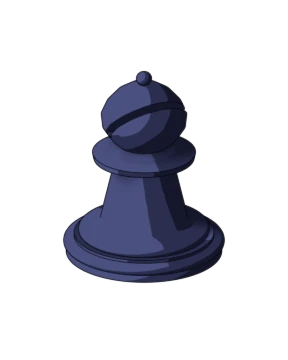
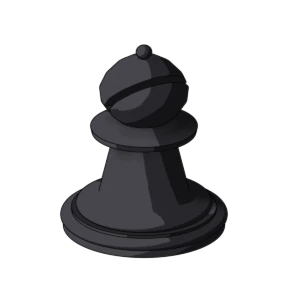
Pieces fit inside their square, sized by bulk; muted sand/olive board with neutral white and charcoal pieces

Changed region(s): [[0.1875, 0.1562, 0.8125, 0.9062]]

diff --git a/index.html b/index.html
@@ -17,7 +17,7 @@
     --bg1:#e8f5ff; --bg2:#fff6e8; --card:#fff; --ink:#2d2a3e; --muted:#7a7590; --line:#ece6f5;
     --accent:#ff7a3d; --accent-d:#e5602a; --accent2:#fff0e6;
     --ok:#2fa968; --ok2:#e6f8ee; --warn:#e2453c; --warn2:#ffecea; --blue:#4a8cff;
-    --light:#c3d9a5; --dark:#6f9f59;
+    --light:#dccfb0; --dark:#7f9455;
     --bs:max(250px,min(calc(100vw - 16px),560px,calc(100svh - 290px)));
   }
   *{box-sizing:border-box;-webkit-tap-highlight-color:transparent}
@@ -63,7 +63,7 @@
 
   /* board */
   .board{width:var(--bs);height:var(--bs);display:grid;grid-template-columns:repeat(8,1fr);grid-template-rows:repeat(8,1fr);border-radius:16px;
-    border:5px solid #557f43;box-shadow:0 6px 0 #3f6531,0 12px 28px rgba(40,80,30,.25);user-select:none;-webkit-user-select:none;touch-action:manipulation}
+    border:5px solid #5f7040;box-shadow:0 6px 0 #4a5832,0 12px 28px rgba(40,80,30,.25);user-select:none;-webkit-user-select:none;touch-action:manipulation}
   .board{position:relative}
   .matbox{display:flex;align-items:center;gap:8px 14px;flex-wrap:wrap;background:#fff;border-radius:16px;padding:6px 12px;box-shadow:0 3px 0 var(--line);animation:pop .25s}
   .matgrp{display:flex;align-items:center;gap:4px}
@@ -90,16 +90,16 @@
      키 큰 기물은 위 칸으로 살짝 솟아요(2.5D). 아래 줄 기물이 DOM에서 나중이라 뒤 기물을 자연스럽게 가려요. */
   .sq.c0{border-top-left-radius:11px}.sq.c7{border-top-right-radius:11px}.sq.c56{border-bottom-left-radius:11px}.sq.c63{border-bottom-right-radius:11px}
   .sq.c0::before{border-top-left-radius:11px}.sq.c7::before{border-top-right-radius:11px}.sq.c56::before{border-bottom-left-radius:11px}.sq.c63::before{border-bottom-right-radius:11px}
-  .pc{display:inline-block;width:1em;height:1.25em;font-size:32px;background:var(--img) center/100% 100% no-repeat;vertical-align:middle;pointer-events:none}
-  .sq .pc{position:absolute;left:0;right:0;bottom:0;width:auto;height:125%;z-index:1;background:none;filter:none;font-size:inherit}
-  .sq .pc::before{content:"";position:absolute;left:calc(50% - var(--sw,.58)*50%);width:calc(var(--sw,.58)*100%);bottom:24%;height:calc(var(--sw,.58)*22%);
+  .pc{display:inline-block;width:1em;height:1em;font-size:32px;background:var(--img) center/100% 100% no-repeat;vertical-align:middle;pointer-events:none}
+  .sq .pc{position:absolute;left:0;right:0;bottom:0;width:auto;height:100%;z-index:1;background:none;filter:none;font-size:inherit}
+  .sq .pc::before{content:"";position:absolute;left:calc(50% - var(--sw,.58)*50%);width:calc(var(--sw,.58)*100%);bottom:calc(22% - var(--sw,.58)*12%);height:calc(var(--sw,.58)*24%);
     border-radius:50%;background:radial-gradient(closest-side,rgba(30,40,20,.42),rgba(30,40,20,.18) 60%,transparent);transition:transform .25s cubic-bezier(.175,.885,.32,1.275),opacity .25s}
-  .sq .pc::after{content:"";position:absolute;inset:0;background:var(--img) center/100% 100% no-repeat;transform-origin:50% 70%;
+  .sq .pc::after{content:"";position:absolute;inset:0;background:var(--img) center/100% 100% no-repeat;transform-origin:50% 78%;
     transition:transform .25s cubic-bezier(.175,.885,.32,1.275)}
   .sq.sel .pc{z-index:3}
-  .sq.sel .pc::after{transform:translateY(-11%) scale(1.07)}
+  .sq.sel .pc::after{transform:translateY(-9%) scale(1.06)}
   .sq.sel .pc::before{transform:scale(.72);opacity:.55}
-  .pc.t-p{--sw:.52}.pc.t-n{--sw:.56}.pc.t-b{--sw:.56}.pc.t-r{--sw:.58}.pc.t-q{--sw:.6}.pc.t-k{--sw:.62}
+  .pc.t-p{--sw:.52}.pc.t-n{--sw:.6}.pc.t-b{--sw:.58}.pc.t-r{--sw:.64}.pc.t-q{--sw:.66}.pc.t-k{--sw:.68}
   .pc.w.t-p{--img:url(pieces/wp.webp)}.pc.w.t-n{--img:url(pieces/wn.webp)}.pc.w.t-b{--img:url(pieces/wb.webp)}.pc.w.t-r{--img:url(pieces/wr.webp)}.pc.w.t-q{--img:url(pieces/wq.webp)}.pc.w.t-k{--img:url(pieces/wk.webp)}
   .pc.b.t-p{--img:url(pieces/bp.webp)}.pc.b.t-n{--img:url(pieces/bn.webp)}.pc.b.t-b{--img:url(pieces/bb.webp)}.pc.b.t-r{--img:url(pieces/br.webp)}.pc.b.t-q{--img:url(pieces/bq.webp)}.pc.b.t-k{--img:url(pieces/bk.webp)}
   .sq.check .pc::after{animation:kshake .5s ease-in-out}
@@ -111,7 +111,7 @@
   @media (prefers-reduced-motion: reduce){.sq .pc::after,.sq .pc::before{transition:none}.sq.check .pc::after{animation:none}}
   .coord{position:absolute;font-size:10px;font-weight:800;z-index:2;pointer-events:none;opacity:.8}
   .coord.r{top:2px;left:3px}.coord.f{bottom:1px;right:3px}
-  .sq.light .coord{color:#4c7a3a}.sq.dark .coord{color:#e8f3dc}
+  .sq.light .coord{color:#6b7d45}.sq.dark .coord{color:#efe7d3}
   .shake{animation:shake .35s}
   @keyframes shake{25%{transform:translateX(-7px)}50%{transform:translateX(7px)}75%{transform:translateX(-3px)}}
   .star{position:absolute;z-index:2;font-size:calc(var(--bs) / 8 * .55);color:#ffc21a;text-shadow:0 2px 0 #e09a00;pointer-events:none;animation:bob 1.4s ease-in-out infinite}
@@ -984,7 +984,7 @@ function animateBoard(el,ctx){
   for(const c of A.caps){
     const [col,row]=cr(c.sq), g=document.createElement('span');
     g.className='pc ghost '+(isW(c.p)?'w':'b')+' t-'+c.p.toLowerCase();
-    g.style.cssText=`left:${col*sz}px;top:${(row-.25)*sz}px;width:${sz}px;height:${sz*1.25}px;font-size:${sz}px`;
+    g.style.cssText=`left:${col*sz}px;top:${row*sz}px;width:${sz}px;height:${sz}px;font-size:${sz}px`;
     el.appendChild(g);
     const t0=pre+dur*.8-el0;
     g.animate([{opacity:1,transform:'none'},{opacity:0,transform:'translateY(-35%) scale(.55) rotate(-30deg)'}],{duration:320,delay:t0,easing:'cubic-bezier(.3,0,1,1)',fill:'both'}).onfinish=()=>g.remove();

diff --git a/sw.js b/sw.js
@@ -1,6 +1,6 @@
 // 오프라인용 서비스 워커: 한 번 열어 두면 인터넷이 없어도 열려요.
 // 인터넷이 될 때는 항상 새 버전을 받아 와서 저장하고, 안 되면 저장해 둔 것을 보여 줘요.
-const CACHE = 'chess-v4';
+const CACHE = 'chess-v5';
 const FILES = ['./', './index.html', './manifest.json', './icon-180.png', './icon-192.png', './icon-512.png', ...['p','n','b','r','q','k'].flatMap(t => ['w','b'].map(c => './pieces/' + c + t + '.webp'))];
 
 self.addEventListener('install', e => {

diff --git a/pieces-blender.py b/pieces-blender.py
@@ -5,15 +5,16 @@ OUT = sys.argv[sys.argv.index('--')+1]
 ONLY = sys.argv[sys.argv.index('--')+2] if len(sys.argv) > sys.argv.index('--')+2 else ''
 os.makedirs(OUT, exist_ok=True)
 ELEV = math.radians(24)
-KING_H = 0.92
+KING_H = 0.80
 LINE = 1.0
 LINECOL = (0.03, 0.03, 0.05)
 # FIDE 장비 규정의 스탠턴 기물 키(cm): 킹 9.5 · 퀸 8.5 · 비숍 7 · 나이트 6 · 룩 5.5 · 폰 5
-TARGET = {'p': 5.0, 'n': 6.0, 'b': 7.0, 'r': 5.5, 'q': 8.5, 'k': 9.5}
+# 칸 밖으로 솟지 않게 키 차이는 줄이고(순서는 FIDE 그대로) 대신 폭·부피로 구분
+TARGET = {'p': 5.0, 'n': 6.4, 'b': 6.8, 'r': 5.8, 'q': 7.4, 'k': 8.0}
 # 받침 지름(칸 너비 대비): 아이 눈에 잘 보이게 조금 통통하게, 룩은 낮고 넓은 성탑
-BASE_D = {'p': .50, 'n': .54, 'b': .54, 'r': .56, 'q': .58, 'k': .60}
+BASE_D = {'p': .50, 'n': .58, 'b': .56, 'r': .62, 'q': .64, 'k': .66}
 BASE_R = {'p': .30, 'n': .33, 'b': .31, 'r': .33, 'q': .34, 'k': .35}
-W, H = 288, 360
+W, H = 288, 288
 
 def reset():
     bpy.ops.wm.read_factory_settings(use_empty=True)
@@ -71,7 +72,7 @@ def build(t):
         prof = base(.33) + [(.21, .15), (.18, .20), (.165, .66), (.185, .70), (.225, .73), (.225, .905), (.165, .905), (.165, .86), (0, .86)]
         ob = lathe('rook', prof); parts.append(ob)
         for i, a in enumerate((0, 60, 120)):
-            cut(ob, box(f'c{i}', (.7, .065, .2), (0, 0, .96), (0, 0, math.radians(a))))
+            cut(ob, box(f'c{i}', (.7, .065, .2), (0, 0, .98), (0, 0, math.radians(a))))
     elif t == 'b':
         prof = base(.31) + [(.175, .15), (.12, .41), (.20, .445), (.205, .47), (.13, .49), (.10, .51), (.13, .54), (.165, .60), (.17, .65), (.15, .70), (.11, .75), (.06, .785), (.03, .795)] + arc(.82, .03, -60, 90, 8)
         ob = lathe('bishop', prof); parts.append(ob)
@@ -132,8 +133,8 @@ def toon(name, cols, stops=(0.0, 0.30, 0.62)):
 
 def materials(color):
     if color == 'w':
-        return toon('body', ('c2b29a', 'ebe1cd', 'fffcf4')), toon('eye', ('1b1830', '1b1830', '2d2a3e'))
-    return toon('body', ('15172b', '2b2e4f', '4b5080')), toon('eye', ('f4ecdc', 'f4ecdc', 'ffffff'))
+        return toon('body', ('b4b6b1', 'e2e3df', 'fbfbf8')), toon('eye', ('202022', '202022', '2a2a2c'))
+    return toon('body', ('141416', '27272b', '46464c')), toon('eye', ('f2f2ee', 'f2f2ee', 'ffffff'))
 
 def scene():
     sc = bpy.context.scene
@@ -150,9 +151,9 @@ def scene():
     sc.view_settings.view_transform = 'Standard'
     sc.world = bpy.data.worlds.new('w'); sc.world.use_nodes = True
     bg = sc.world.node_tree.nodes['Background']; bg.inputs[0].default_value = (0.75, 0.8, 0.9, 1); bg.inputs[1].default_value = 0.55
-    cam = bpy.data.cameras.new('cam'); cam.type = 'ORTHO'; cam.ortho_scale = 1.25
+    cam = bpy.data.cameras.new('cam'); cam.type = 'ORTHO'; cam.ortho_scale = 1.0
     co = bpy.data.objects.new('cam', cam); sc.collection.objects.link(co); sc.camera = co
-    zt = 0.245/math.cos(ELEV); d = 10
+    zt = 0.28/math.cos(ELEV); d = 10
     co.location = (0, -d*math.cos(ELEV), zt + d*math.sin(ELEV))
     co.rotation_euler = (math.pi/2 - ELEV, 0, 0)
     sun = bpy.data.lights.new('sun', 'SUN'); sun.energy = 3.0; sun.angle = math.radians(3)
@@ -178,7 +179,7 @@ for t in 'pnbrqk':
             if ob.type == 'MESH':
                 ob.data.materials.clear(); ob.data.materials.append(eye if ob.get('eye') else body)
         ls = bpy.context.scene.view_layers[0].freestyle_settings.linesets[0].linestyle
-        ls.color = srgb('2d2a3e') if c == 'w' else srgb('07080f')
+        ls.color = srgb('55575a') if c == 'w' else srgb('050506')
         bpy.context.scene.render.filepath = os.path.join(OUT, f'{c}{t}.png')
         bpy.ops.render.render(write_still=True)
         print('done', c, t, round(top, 3))
